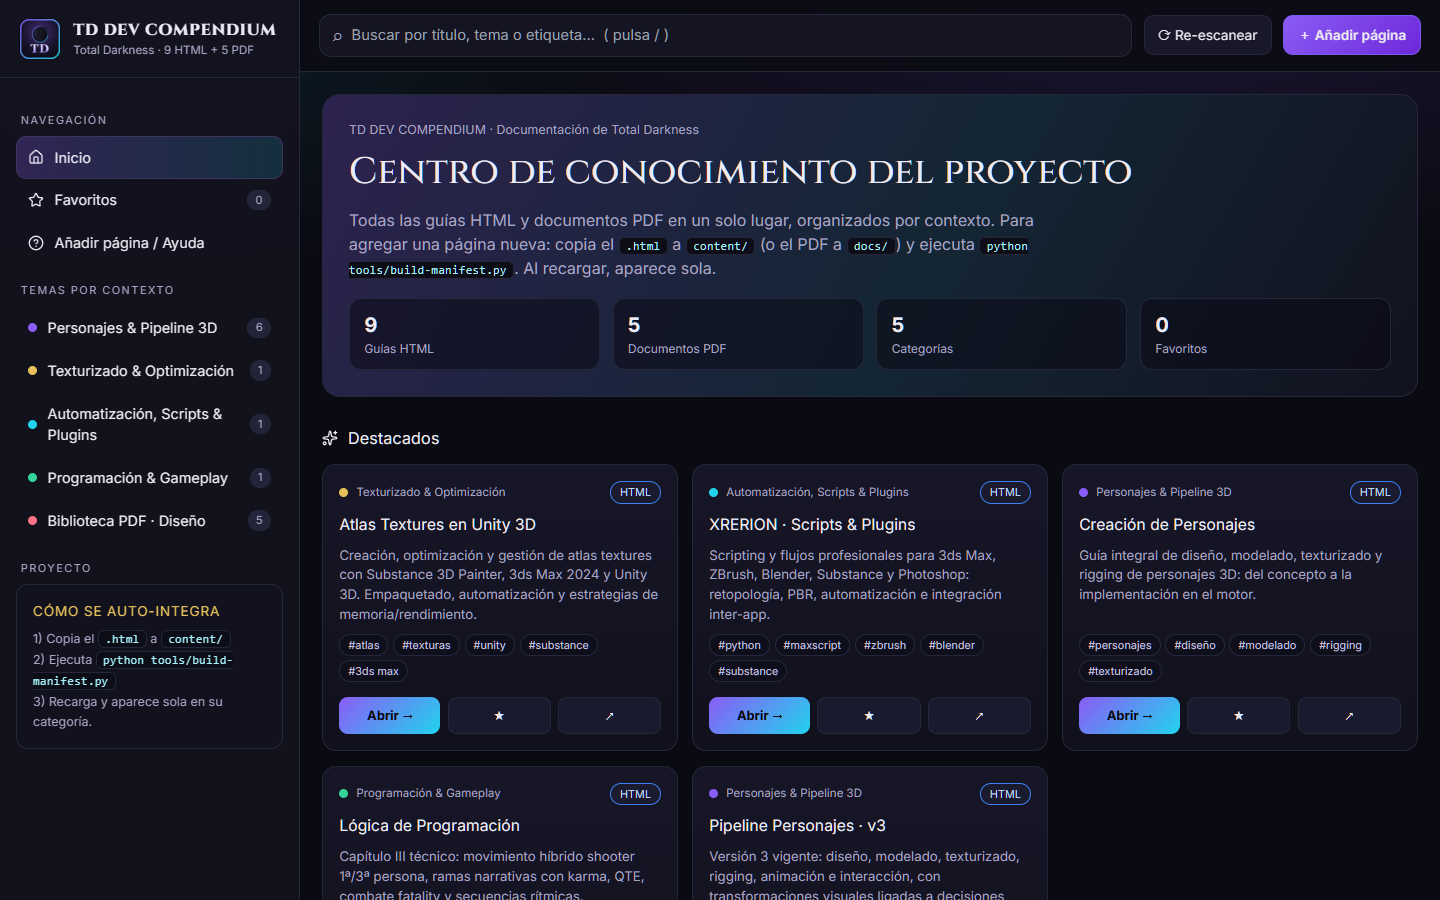
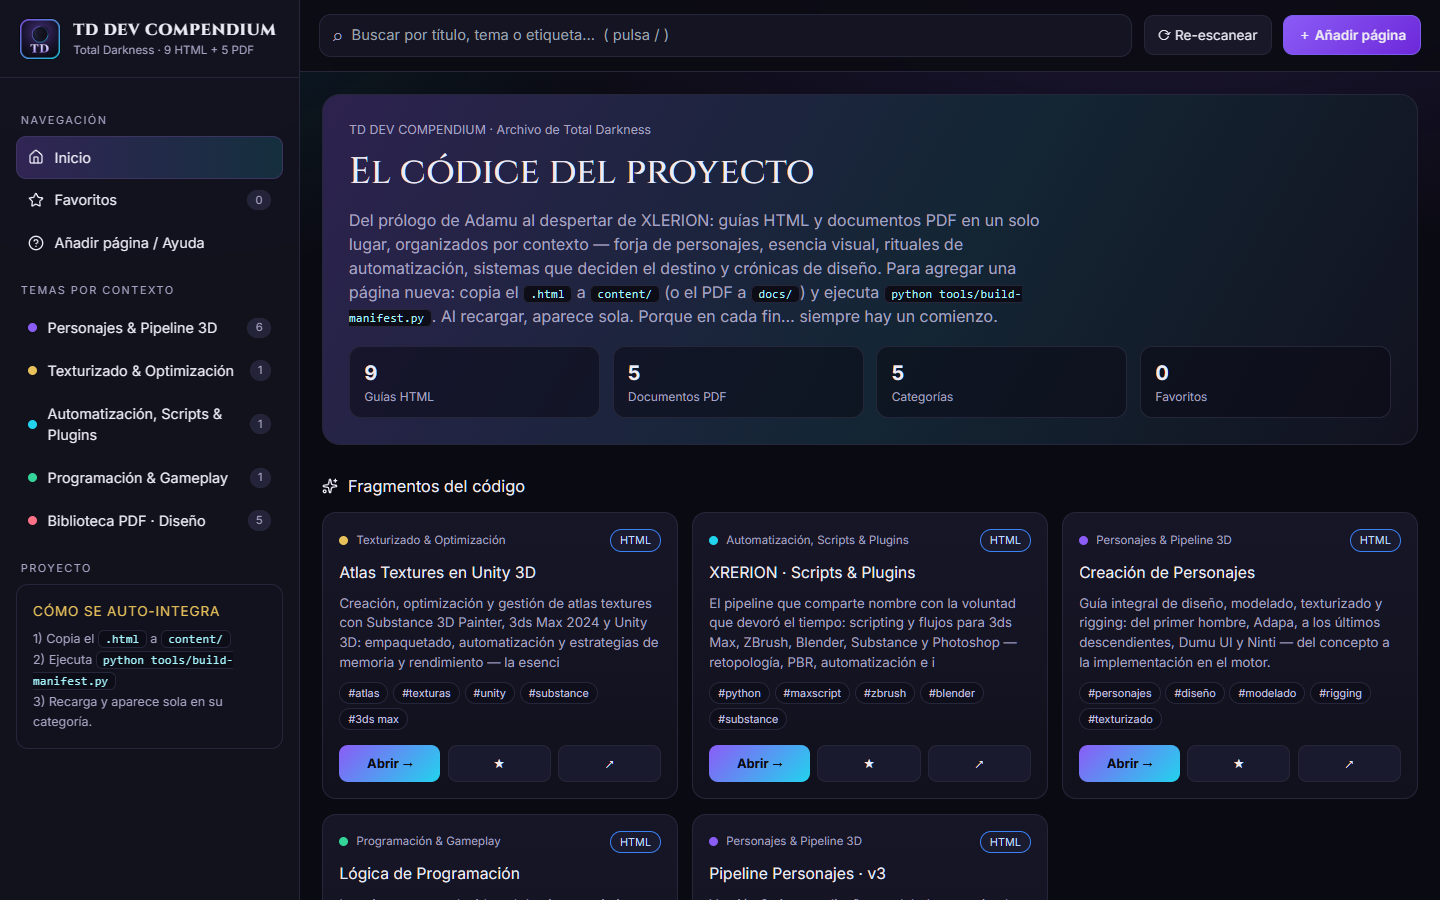
Aplica el lore de Total Darkness a los textos del sitio
- Hero, categorias, descripciones y etiquetas con Adapa, Ninhursag,
  XLERION, codigo Tiamatu Enuma, Gen Final, Dumu Ul y Ninti
- Sin cambios funcionales ni en las guias; solo contenido textual
- Screenshots del README recapturados

diff --git a/index.html b/index.html
@@ -4,7 +4,7 @@
 <meta charset="UTF-8">
 <meta name="viewport" content="width=device-width, initial-scale=1.0">
 <title>TD Dev Compendium · Documentación de Total Darkness</title>
-<meta name="description" content="TD Dev Compendium: plataforma unificada con las guías HTML y PDFs de Total Darkness, organizados por contexto y con auto-integración de páginas nuevas.">
+<meta name="description" content="TD Dev Compendium: el códice de Total Darkness — guías HTML y PDFs organizados por contexto, del prólogo de Adamu al despertar de XLERION.">
 <meta name="theme-color" content="#0a0a12">
 <link rel="icon" type="image/svg+xml" href="assets/img/favicon.svg">
 <link rel="icon" type="image/png" sizes="32x32" href="assets/img/favicon-32.png">
@@ -92,7 +92,7 @@
 <script type="application/json" id="manifest-embedded">
 {
   "version": 1,
-  "generated": "2026-09-06T23:36:12+00:00",
+  "generated": "2026-09-07T00:16:01+00:00",
   "generator": "tools/build-manifest.py",
   "categories": [
     {
@@ -139,7 +139,7 @@
       "file": "content/atlas-textures-unity.html",
       "type": "html",
       "category": "texturizado",
-      "description": "Creación, optimización y gestión de atlas textures con Substance 3D Painter, 3ds Max 2024 y Unity 3D. Empaquetado, automatización y estrategias de memoria/rendimiento.",
+      "description": "Creación, optimización y gestión de atlas textures con Substance 3D Painter, 3ds Max 2024 y Unity 3D: empaquetado, automatización y estrategias de memoria y rendimiento — la esencia visual, sin que nada se consuma en vano.",
       "tags": [
         "atlas",
         "texturas",
@@ -160,7 +160,7 @@
       "file": "content/automatizacion-scripts-plugins-xrerion.html",
       "type": "html",
       "category": "automatizacion",
-      "description": "Scripting y flujos profesionales para 3ds Max, ZBrush, Blender, Substance y Photoshop: retopología, PBR, automatización e integración inter-app.",
+      "description": "El pipeline que comparte nombre con la voluntad que devoró el tiempo: scripting y flujos para 3ds Max, ZBrush, Blender, Substance y Photoshop — retopología, PBR, automatización e integración inter-app.",
       "tags": [
         "python",
         "maxscript",
@@ -170,7 +170,8 @@
         "photoshop",
         "uxp",
         "pbr",
-        "retopología"
+        "retopología",
+        "xlerion"
       ],
       "badge": "v2.1",
       "featured": true
@@ -182,14 +183,17 @@
       "file": "content/creacion-personajes-diseno-modelado-rigging.html",
       "type": "html",
       "category": "personajes",
-      "description": "Guía integral de diseño, modelado, texturizado y rigging de personajes 3D: del concepto a la implementación en el motor.",
+      "description": "Guía integral de diseño, modelado, texturizado y rigging: del primer hombre, Adapa, a los últimos descendientes, Dumu Ul y Ninti — del concepto a la implementación en el motor.",
       "tags": [
         "personajes",
         "diseño",
         "modelado",
         "rigging",
         "texturizado",
-        "pipeline"
+        "pipeline",
+        "adapa",
+        "ninhursag",
+        "clanes"
       ],
       "featured": true
     },
@@ -200,7 +204,7 @@
       "file": "content/logica-programacion-sistemas-core.html",
       "type": "html",
       "category": "programacion",
-      "description": "Capítulo III técnico: movimiento híbrido shooter 1ª/3ª persona, ramas narrativas con karma, QTE, combate fatality y secuencias rítmicas.",
+      "description": "Los sistemas que deciden el destino: movimiento híbrido shooter 1ª/3ª persona, ramas de libre albedrío con karma, QTE, combate fatality y secuencias rítmicas — ¿proteger el Gen Final, destruir el núcleo o reescribir el universo desde dentro?",
       "tags": [
         "gameplay",
         "movimiento",
@@ -209,7 +213,10 @@
         "combate",
         "ritmo",
         "karma",
-        "total darkness"
+        "total darkness",
+        "gen final",
+        "red tormenthor",
+        "libre albedrío"
       ],
       "badge": "Sistemas Core",
       "featured": true
@@ -221,17 +228,16 @@
       "file": "content/Pipeline ZBrush.html",
       "type": "html",
       "category": "personajes",
-      "description": "Descubre el proceso integral de creación de personajes y assets 3D, desde la escultura inicial en ZBrush hasta la integración final en Unity, con enfoque en técnicas artísticas, optimización topológica, rigging profesional y rendimiento en tiempo real.",
+      "description": "Esculpir portadores del código: proceso integral desde la escultura inicial en ZBrush hasta la integración final en Unity — técnicas artísticas, optimización topológica, rigging profesional y rendimiento en tiempo real.",
       "tags": [
-        "optimiz",
-        "personaje",
+        "zbrush",
+        "esculpido",
+        "personajes",
         "pipeline",
-        "rendimiento",
         "rigging",
-        "substance",
-        "textur",
         "unity",
-        "zbrush"
+        "optimización",
+        "rendimiento"
       ]
     },
     {
@@ -241,14 +247,15 @@
       "file": "content/pipeline-modelado-personajes-motor3d-aaa.html",
       "type": "html",
       "category": "personajes",
-      "description": "Flujo AAA de estudios profesionales: del modelado inicial al renderizado e integración final en Unity 3D.",
+      "description": "Flujo AAA de estudios profesionales: del modelado inicial al renderizado e integración final en Unity 3D — para que las armaduras rotas vuelvan a reflejar la luz.",
       "tags": [
         "aaa",
         "modelado",
         "unity",
         "render",
         "pipeline",
-        "estudios"
+        "estudios",
+        "forja"
       ],
       "badge": "AAA"
     },
@@ -259,14 +266,15 @@
       "file": "content/pipeline-personajes-unity-v1.html",
       "type": "html",
       "category": "personajes",
-      "description": "Guía exhaustiva v1: diseño conceptual, modelado, texturizado, rigging, optimización e integración de jugables y NPCs en Unity.",
+      "description": "Guía exhaustiva v1: diseño conceptual, modelado, texturizado, rigging, optimización e integración de jugables y NPCs en Unity — los primeros pasos de los clanes.",
       "tags": [
         "pipeline",
         "unity",
         "personajes",
         "rigging",
         "npc",
-        "integración"
+        "integración",
+        "clanes"
       ],
       "badge": "v1"
     },
@@ -277,7 +285,7 @@
       "file": "content/pipeline-personajes-unity-v2.html",
       "type": "html",
       "category": "personajes",
-      "description": "Versión 2 del pipeline: conceptual, modelado, texturizado, rigging, optimización e integración con enfoque en interacción y animación.",
+      "description": "Versión 2 del pipeline: conceptual, modelado, texturizado, rigging, optimización e integración, con enfoque en interacción y animación — el ciclo se repite, distinto.",
       "tags": [
         "pipeline",
         "unity",
@@ -295,7 +303,7 @@
       "file": "content/pipeline-personajes-unity-v3.html",
       "type": "html",
       "category": "personajes",
-      "description": "Versión 3 vigente: diseño, modelado, texturizado, rigging, animación e interacción, con transformaciones visuales ligadas a decisiones éticas y estados emocionales.",
+      "description": "Versión 3 vigente: diseño, modelado, texturizado, rigging, animación e interacción, con transformaciones visuales ligadas a decisiones éticas y estados emocionales — el experimento de Enki: cada elección guía el destino.",
       "tags": [
         "pipeline",
         "unity",
@@ -303,7 +311,9 @@
         "narrativa",
         "ética",
         "emociones",
-        "animación"
+        "animación",
+        "libre albedrío",
+        "enki"
       ],
       "badge": "v3 · actual",
       "featured": true
@@ -316,13 +326,14 @@
       "type": "pdf",
       "category": "biblioteca",
       "topic": "programacion",
-      "description": "Enfoque integral de arquitectura para combates multigénero y narrativa interactiva en Unity.",
+      "description": "Arquitectura para combates multigénero y narrativa interactiva en Unity: los sistemas para enfrentar a XLERION en todas sus formas.",
       "tags": [
         "arquitectura",
         "unity",
         "combate",
         "narrativa",
-        "pdf"
+        "pdf",
+        "xlerion"
       ]
     },
     {
@@ -333,7 +344,7 @@
       "type": "pdf",
       "category": "biblioteca",
       "topic": "personajes",
-      "description": "Pipeline profesional AAA: del bloqueo inicial a la escena final con personajes en Unity 3D.",
+      "description": "Pipeline profesional AAA: del bloqueo inicial a la escena final — del campo que ya no sueña a la batalla que decide el universo.",
       "tags": [
         "aaa",
         "pipeline",
@@ -350,12 +361,14 @@
       "type": "pdf",
       "category": "biblioteca",
       "topic": "personajes",
-      "description": "Guía técnica de creación de personajes: del concepto artístico a la interacción dinámica en Unity.",
+      "description": "Del concepto artístico — Adapa y Ninhursag — a la interacción dinámica en Unity.",
       "tags": [
         "concepto",
         "interacción",
         "personajes",
-        "pdf"
+        "pdf",
+        "adapa",
+        "ninhursag"
       ]
     },
     {
@@ -366,7 +379,7 @@
       "type": "pdf",
       "category": "biblioteca",
       "topic": "automatizacion",
-      "description": "Automatización del pipeline 3D con scripts y plugins para producción.",
+      "description": "Los rituales para que la forja no repita el ciclo: automatización del pipeline 3D con scripts y plugins para producción.",
       "tags": [
         "scripts",
         "plugins",
@@ -382,13 +395,16 @@
       "type": "pdf",
       "category": "biblioteca",
       "topic": "personajes",
-      "description": "Workflow adaptativo para personajes con carga narrativa en el universo Total Darkness.",
+      "description": "Workflow adaptativo para personajes con carga narrativa: Dumu Ul, Ninti y los portadores del código Tiamatu Enuma.",
       "tags": [
         "workflow",
         "narrativa",
         "personajes",
         "total darkness",
-        "pdf"
+        "pdf",
+        "dumu ul",
+        "ninti",
+        "tiamatu enuma"
       ]
     }
   ]

diff --git a/assets/js/platform.js b/assets/js/platform.js
@@ -95,12 +95,11 @@
 
     $("#view").innerHTML=`
       <div class="hero">
-        <div class="crumbs">TD DEV COMPENDIUM · Documentación de Total Darkness</div>
-        <h1 class="font-display">Centro de conocimiento del proyecto</h1>
-        <p>Todas las guías HTML y documentos PDF en un solo lugar, organizados por contexto.
-        Para agregar una página nueva: copia el <code class="inline">.html</code> a
+        <div class="crumbs">TD DEV COMPENDIUM · Archivo de Total Darkness</div>
+        <h1 class="font-display">El códice del proyecto</h1>
+        <p>Del prólogo de Adamu al despertar de XLERION: guías HTML y documentos PDF en un solo lugar, organizados por contexto — forja de personajes, esencia visual, rituales de automatización, sistemas que deciden el destino y crónicas de diseño. Para agregar una página nueva: copia el <code class="inline">.html</code> a
         <code class="inline">content/</code> (o el PDF a <code class="inline">docs/</code>) y ejecuta
-        <code class="inline">python tools/build-manifest.py</code>. Al recargar, aparece sola.</p>
+        <code class="inline">python tools/build-manifest.py</code>. Al recargar, aparece sola. Porque en cada fin… siempre hay un comienzo.</p>
         <div class="stats">
           <div class="stat"><b>${state.manifest.pages.filter(p=>p.type==="html").length}</b><span>Guías HTML</span></div>
           <div class="stat"><b>${state.manifest.pages.filter(p=>p.type==="pdf").length}</b><span>Documentos PDF</span></div>
@@ -109,8 +108,8 @@
         </div>
       </div>
       ${q?`<div class="section-title"><h2>Resultados para “${escapeHTML(q)}” (${pages.length})</h2></div>
-      <div class="grid">${pages.map(cardHTML).join("")||`<div class="empty">Sin resultados. Prueba con “pipeline”, “unity”, “qte”…</div>`}</div>`:`
-      ${featured.length?`<div class="section-title">${icon("sparkles")} <h2>Destacados</h2></div>
+      <div class="grid">${pages.map(cardHTML).join("")||`<div class="empty">Sin resultados. Prueba con “xlerion”, “tiamatu”, “qte”…</div>`}</div>`:`
+      ${featured.length?`<div class="section-title">${icon("sparkles")} <h2>Fragmentos del código</h2></div>
       <div class="grid">${featured.map(cardHTML).join("")}</div>`:""}
       <div class="section-title">${icon("layout-grid")} <h2>Categorías</h2></div>
       <div class="grid">${state.manifest.categories.map(c=>`
@@ -173,7 +172,7 @@
         <iframe class="viewer" id="viewer" src="${p.file}" title="${escapeHTML(p.title)}"></iframe>
       </div>
       <div class="meta">
-        <div class="meta-box"><h4>ACERCA DE ESTE RECURSO</h4><p>${escapeHTML(p.description||"")}</p>
+        <div class="meta-box"><h4>CRÓNICA DEL RECURSO</h4><p>${escapeHTML(p.description||"")}</p>
           <p>Etiquetas: ${(p.tags||[]).map(t=>`<code class="inline">#${escapeHTML(t)}</code>`).join(" ")}</p></div>
         <div class="meta-box"><h4>FICHA</h4>
           <p>Tipo: <b>${p.type.toUpperCase()}</b><br>Categoría: <b>${escapeHTML(cat?.name||"")}</b><br>Archivo: <code class="inline">${escapeHTML(p.file)}</code>${p.badge?`<br>Marca: <b>${escapeHTML(p.badge)}</b>`:""}</p></div>

diff --git a/README.md b/README.md
@@ -1,6 +1,6 @@
 # TD Dev Compendium
 
-> Centro de conocimiento del videojuego **Total Darkness**: guías HTML, pipelines 3D, sistemas de gameplay y documentos de diseño, unificados en una sola plataforma navegable.
+> El códice del videojuego **Total Darkness** (Mike Hellawaits): guías HTML, pipelines 3D, sistemas de gameplay y crónicas de diseño — del prólogo de Adamu al despertar de XLERION. *Porque en cada fin… siempre hay un comienzo.*
 
 ![HTML](https://img.shields.io/badge/guías-9_HTML-8b5cf6)
 ![PDF](https://img.shields.io/badge/docs-5_PDF-e8c15a)
@@ -44,7 +44,7 @@ Abre `http://127.0.0.1:8080` (o el puerto libre que indique el lanzador).
 
 | Buscador | Visor de guía |
 |---|---|
-| ![Buscador filtrando por "qte"](docs/screenshots/03-buscador.png) | ![Guía abierta en el visor integrado](docs/screenshots/04-visor.png) |
+| ![Buscador filtrando por "xlerion"](docs/screenshots/03-buscador.png) | ![Guía abierta en el visor integrado](docs/screenshots/04-visor.png) |
 
 | Biblioteca PDF |
 |---|
@@ -54,11 +54,11 @@ Abre `http://127.0.0.1:8080` (o el puerto libre que indique el lanzador).
 
 | Categoría | Recursos |
 |---|---|
-| Personajes & Pipeline 3D | Creación de personajes, pipelines Unity v1/v2/v3, ZBrush, AAA |
-| Texturizado & Optimización | Atlas Textures (Substance, 3ds Max, Unity) |
-| Automatización, Scripts & Plugins | XRERION Pipeline (Python, MAXScript, Blender, UXP) |
-| Programación & Gameplay | Sistemas core: movimiento híbrido, narrativa/karma, QTE, fatality |
-| Biblioteca PDF · Diseño | Arquitectura híbrida, pipelines AAA, flujos narrativos |
+| Personajes & Pipeline 3D | Forja de los portadores del código: Adapa, Ninhursag, clanes, ZBrush, AAA |
+| Texturizado & Optimización | Esencia visual: Atlas Textures (Substance, 3ds Max, Unity) |
+| Automatización, Scripts & Plugins | Rituales XRERION (Python, MAXScript, Blender, UXP) |
+| Programación & Gameplay | Sistemas que deciden el destino: Gen Final, karma, QTE, fatality |
+| Biblioteca PDF · Diseño | Crónicas de Mike Hellawaits: del prólogo de Adamu a Red Tormenthor |
 
 ## Estructura del proyecto
 
